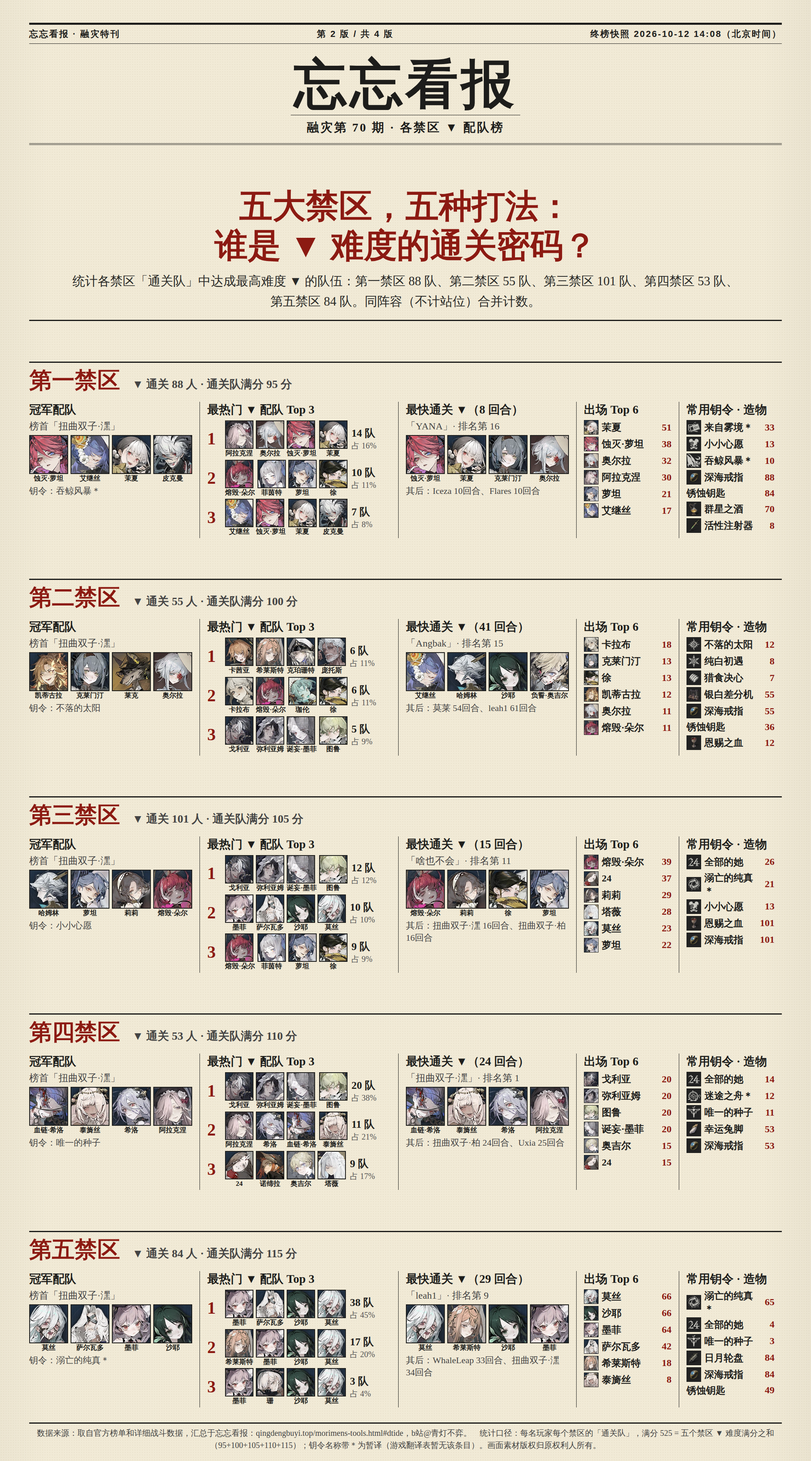
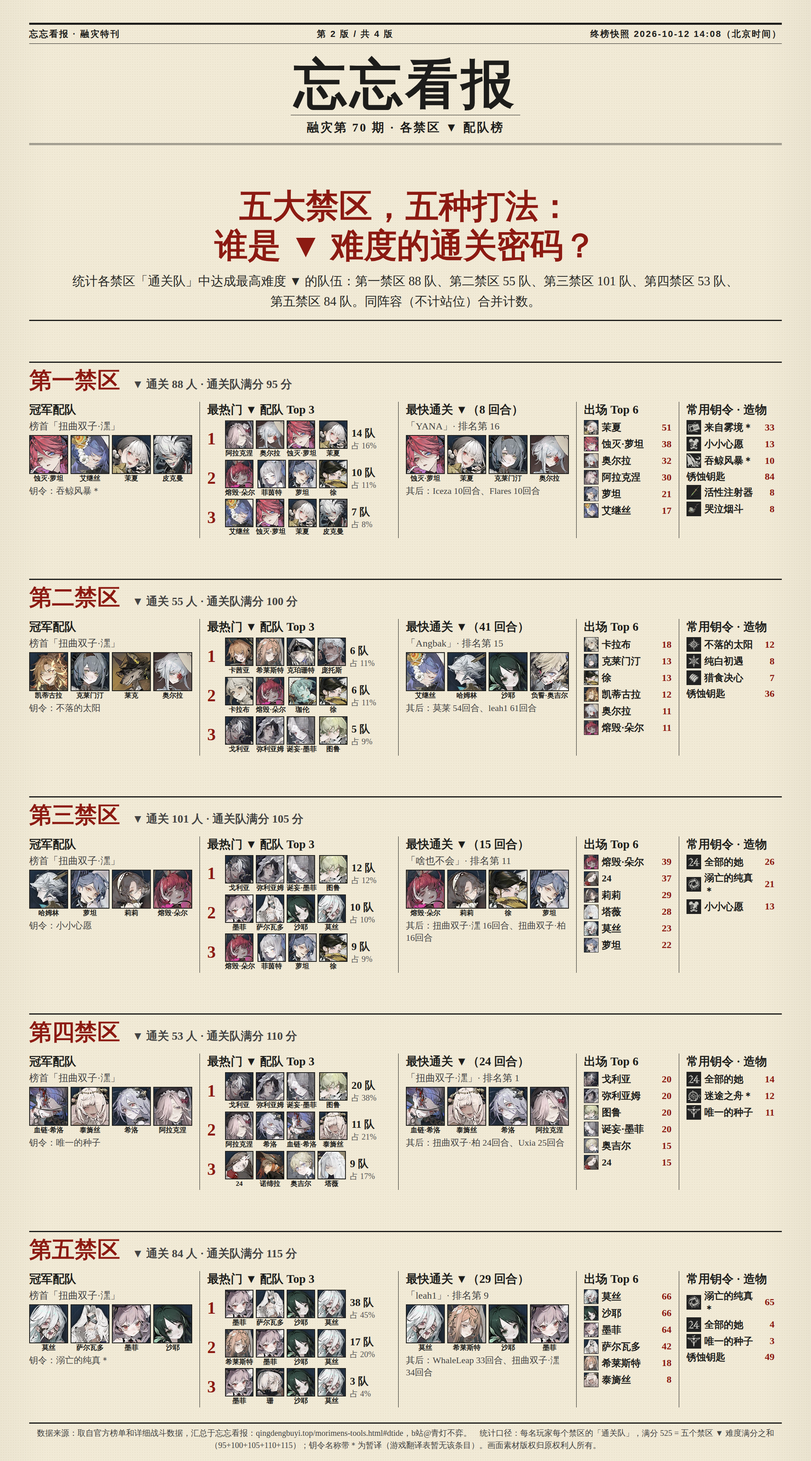
docs: Season 70 report v3 (fixed S70 creations removed, SSS-inclusive niche rankings) + wiki key-token export script
Claude-Session: https://claude.ai/code/session_01MCt2f4xRwpKngiPShFG9zo

diff --git a/scripts/huiji_posse_console.js b/scripts/huiji_posse_console.js
@@ -1,0 +1,28 @@
+// Paste into the DevTools console on https://morimens.huijiwiki.com/ (same-origin, passes Cloudflare).
+// Downloads huiji-posse.json: wikitext + rendered tables of the 钥令 (key token) pages with Chinese + English names,
+// used to replace the provisional (＊) key token names in the Season 70 report / leaderboard.
+(async()=>{
+  const api=async p=>(await fetch('/api.php?'+new URLSearchParams({format:'json',formatversion:'2',origin:'*',...p}))).json();
+  const titles=new Set(['钥令','钥令一览','钥令图鉴','钥令列表']);
+  for(const q of ['钥令','钥令 英文','Key Token','守密人技能']){
+    let cont={};
+    do{
+      const r=await api({action:'query',list:'search',srsearch:q,srlimit:'50',srnamespace:'0|10|14',...cont});
+      (r.query?.search||[]).forEach(x=>titles.add(x.title));cont=r.continue||null;
+    }while(cont);
+  }
+  const txt=el=>el.textContent.replace(/\s+/g,' ').trim();
+  const pages=[];
+  for(const title of titles){
+    try{
+      const r=await api({action:'parse',page:title,prop:'text|wikitext|links',redirects:'1',disablelimitreport:'1'});
+      if(!r.parse)continue;
+      const doc=new DOMParser().parseFromString(r.parse.text,'text/html');
+      pages.push({title:r.parse.title,wikitext:r.parse.wikitext,links:(r.parse.links||[]).map(l=>l.title),
+        tables:[...doc.querySelectorAll('table')].map(t=>[...t.querySelectorAll('tr')].map(tr=>[...tr.children].map(c=>({text:txt(c),images:[...c.querySelectorAll('img')].map(i=>i.alt||i.getAttribute('data-file-name')||i.getAttribute('src')||'')}))))});
+    }catch(e){console.warn('skip',title,e.message)}
+  }
+  const blob=new Blob([JSON.stringify({source:{site:location.origin,retrievedAt:new Date().toISOString()},pages},null,1)],{type:'application/json'});
+  const a=document.createElement('a');a.href=URL.createObjectURL(blob);a.download='huiji-posse.json';a.click();
+  console.log('done',pages.length,'pages');
+})();
